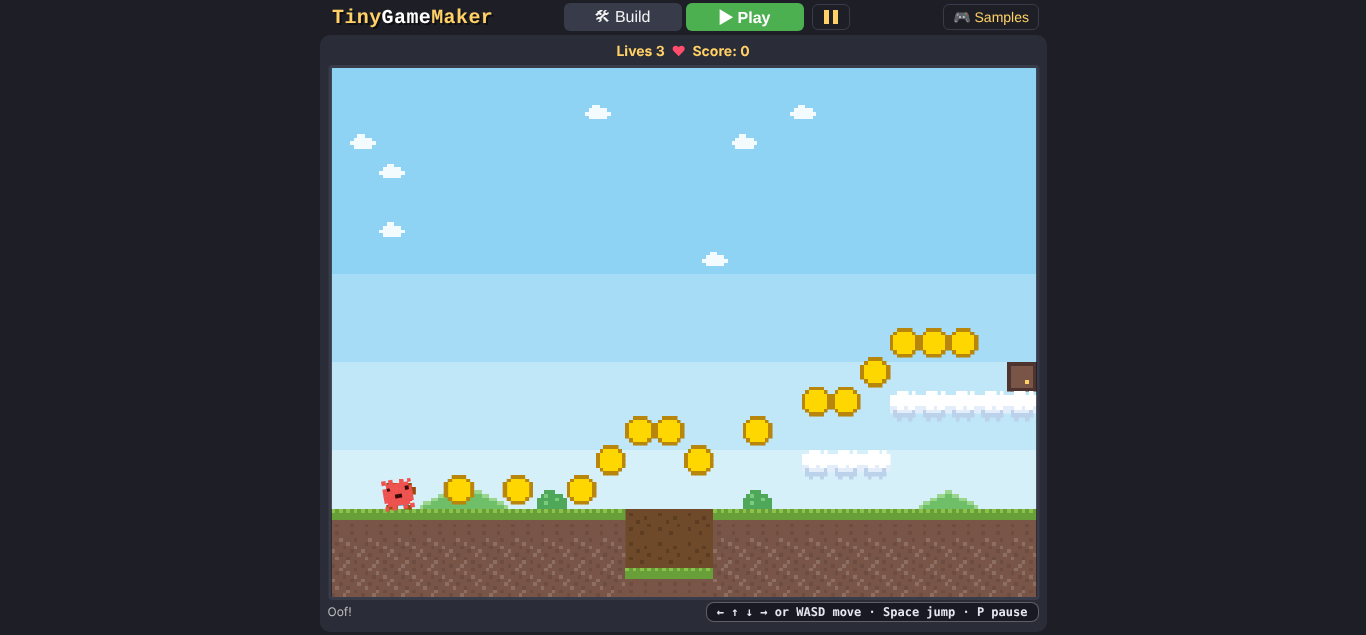
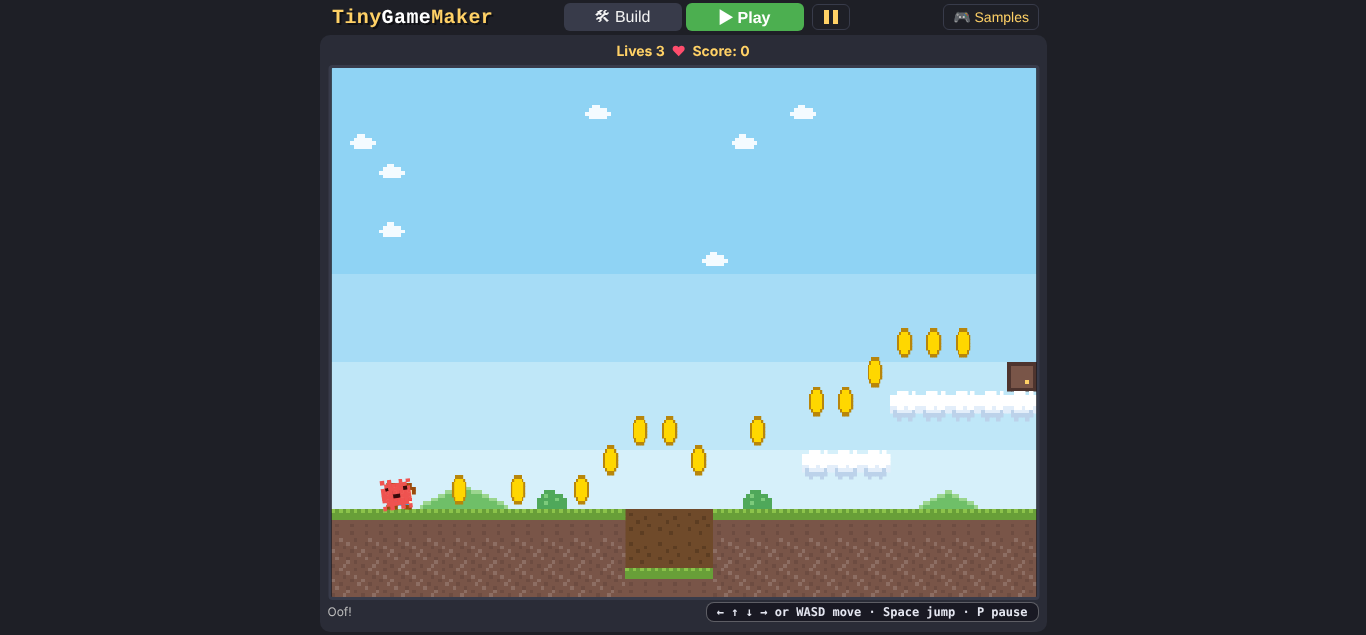
Cloud Hopper stage 3: start-to-finish bot, reachability check, fall test, proof notes
A bot that plays the sample from the first frame to the flag at 30/60/144 fps (11 hops), a board-reading reachability check of every required jump against the measured limits, and a fall test from all 202 platform spots that finishes the room from wherever it lands. Plus screenshots of every room at both viewports.

Claude-Session: https://claude.ai/code/session_01AFnBmdx3cEuA6xEbAxjFVp

Changed region(s): [[0.2767, 0.6583, 0.5842, 0.8079], [0.5842, 0.5087, 0.7379, 0.6583]]

diff --git a/tests/cloudhopper.bot.js b/tests/cloudhopper.bot.js
@@ -1,0 +1,185 @@
+// Cloud Hopper: a bot that plays the sample from the first frame to the flag, and a fall test from every platform.
+// usage: node tests/cloudhopper.bot.js [html] [fps list, default 30,60,144] [mode: full|fall|both]
+// The bot sets the same key state the keyboard handlers set (keys[...]) and steps tick() by hand (requestAnimationFrame
+// disabled), so a run is deterministic. It has no map knowledge beyond which platform it stands on: it walks to a takeoff x,
+// jumps, steers toward the next platform and lets go, like a kid would; if a jump misses it simply starts again from wherever it lands.
+const { chromium } = require("/opt/node22/lib/node_modules/playwright");
+const fs = require("fs"), path = require("path"), os = require("os");
+const html = path.resolve(process.argv[2] && process.argv[2] !== "-" ? process.argv[2] : path.join(__dirname, "..", "index.html"));
+const fpsList = (process.argv[3] || "30,60,144").split(",").map(Number);
+const mode = process.argv[4] || "both";
+const anchor = 'if (loadAutosave()) log("Welcome back! Restored your last auto-saved session.");\n  updateUndoRedoButtons();\n';
+const DRIVER = `window.__bot = (FPS) => {
+  const dt = 1 / FPS; let frames = 0; const step = n => { for (let i = 0; i < n; i++) { tick(dt); frames++; } };
+  const P = () => actors.find(a => a.isPlayer);
+  const K = (k, v) => { keys[k] = v; };
+  const release = () => { K("ArrowLeft", false); K("ArrowRight", false); K(" ", false); };
+  const roomIdx = () => rooms.findIndex(r => r.id === currentRoomId);
+  const stats = { hops: 0, misses: 0, walked: 0, rooms: [], mpTries: 0 };
+  const done = () => playSessionEnded;
+  function walkTo(px, tol) {
+    tol = tol || 3;
+    for (let n = 0; n < FPS * 12 && !done(); n++) {
+      const p = P(), d = px - p.x, vel = p.vx, stop = vel * Math.abs(vel) / (2 * 1700), err = d - stop;
+      K("ArrowLeft", false); K("ArrowRight", false);
+      if (Math.abs(d) <= tol && Math.abs(vel) < 25) break;
+      if (err > 1.5) K("ArrowRight", true); else if (err < -1.5) K("ArrowLeft", true);
+      const x0 = p.x; step(1); stats.walked += Math.abs(p.x - x0);
+      if (!p.grounded) { release(); return false; }
+    }
+    release(); return true;
+  }
+  // jump toward dir, hold the direction until until(p) says stop, then coast to the landing
+  function hop(dir, until) {
+    const p = P(), key = dir > 0 ? "ArrowRight" : "ArrowLeft"; stats.hops++;
+    K(key, true); K(" ", true); step(2); K(" ", false);
+    let air = false;
+    for (let n = 0; n < FPS * 2 && !done(); n++) {
+      if (until(p)) K(key, false);
+      const x0 = p.x; step(1); stats.walked += Math.abs(p.x - x0);
+      if (!p.grounded) air = true;
+      if (air && p.grounded) break;
+    }
+    release(); step(Math.ceil(FPS * 0.25));
+  }
+  const ty = p => Math.round(p.y / 32 * 100) / 100, tx = p => p.x / 32;
+  const near = (a, b) => Math.abs(a - b) < 0.2;
+  const mp = () => actors.find(a => a.defId === MOVING_PLATFORM_DEF_ID);
+  // one decision per call; returns false if nothing sensible to do (airborne)
+  function act(room) {
+    const p = P();
+    if (!p.grounded) {                                                                            // bouncing in the pit: steer over to the big cloud, as the first time
+      if (room === 1 && p.x / 32 > 8.4 && p.x / 32 < 14.2) { K("ArrowRight", true); step(1); if (P().x / 32 >= 14.2) release(); return; }
+      step(1); return;
+    }
+    const y = ty(p), x = tx(p);
+    if (room === 0) {
+      if (near(y, 14.31) && x < 10) { walkTo(8.3 * 32); hop(1, q => q.x >= 13.2 * 32); }
+      else if (y > 15.5) { walkTo(12.0 * 32); hop(1, q => q.x >= 13.2 * 32); }                   // in the dip: hop out to the right
+      else if (near(y, 14.31) && x < 16.0) { walkTo(14.2 * 32); hop(1, q => q.x >= 16.4 * 32); }
+      else if (near(y, 14.31)) { walkTo(14.2 * 32); }                                              // fell off a cloud: back to the foot of the steps
+      else if (near(y, 12.31)) { walkTo(17.2 * 32); hop(1, q => q.x >= 19.5 * 32); }
+      else if (near(y, 10.31)) { K("ArrowRight", true); step(Math.ceil(FPS * 0.6)); release(); }  // walk on into the door
+      else step(1);
+    } else if (room === 1) {
+      const m = mp();
+      if (near(y, 14.31) && x < 9) { K("ArrowRight", true); for (let n = 0; n < FPS * 3 && !done(); n++) { step(1); if (!P().grounded) break; }
+        // dropped into the pit: ride the bounce and let go once over the cloud
+        for (let n = 0; n < FPS * 3 && !done(); n++) { if (P().x >= 14.2 * 32) K("ArrowRight", false); step(1); if (P().grounded && n > 3 && P().y < 12 * 32) break; }
+        release(); step(Math.ceil(FPS * 0.25)); }
+      else if (near(y, 14.31) && x >= 10.2) { K("ArrowLeft", true); for (let n = 0; n < FPS * 3 && !done(); n++) { step(1); if (!P().grounded) break; }
+        for (let n = 0; n < FPS * 3 && !done(); n++) { if (P().x >= 14.2 * 32 || P().vy < -400) K("ArrowLeft", false); if (P().vy < -300) K("ArrowRight", true); if (P().x >= 14.2 * 32) K("ArrowRight", false); step(1); if (P().grounded && n > 3 && P().y < 12 * 32) break; }
+        release(); step(Math.ceil(FPS * 0.25)); }
+      else if (near(y, 9.31) && x >= 12.6) {                                                      // on the big cloud: wait for the platform, then hop onto it
+        walkTo(17.6 * 32);
+        for (let n = 0; n < FPS * 12 && !done(); n++) {
+          const dx = m.x - P().x;
+          const lo = 40 + (stats.mpTries % 5) * 12;                                                // a kid varies the moment after a miss
+          if (dx > lo && dx < lo + 60) { stats.mpTries++; hop(1, q => Math.abs((m.x + 11) - (q.x + 11)) < 10 + (stats.mpTries % 3) * 6); break; }
+          step(1);
+        }
+      }
+      else if (y > 7.2 && y < 7.8) {                                                              // riding the platform: hop to the ledge when it is on the left half
+        for (let n = 0; n < FPS * 12 && !done(); n++) { if (m.x <= 19.2 * 32 && m.x >= 16 * 32) { hop(1, q => q.x >= 21.2 * 32); break; } step(1); }
+      }
+      else if (near(y, 5.31) && x >= 19.2) { K("ArrowRight", true); step(Math.ceil(FPS * 0.8)); release(); }
+      else if (near(y, 12.31) || near(y, 10.31)) { K("ArrowLeft", true); step(Math.ceil(FPS * 1.2)); release(); }
+      else if (near(y, 14.31)) { K("ArrowLeft", true); step(Math.ceil(FPS * 0.5)); release(); }
+      else step(1);
+    } else {
+      if (near(y, 15.31)) { if (x < 3.0 || x > 3.6) walkTo(3.2 * 32); hop(1, q => q.x >= 4.5 * 32); }
+      else if (near(y, 13.31) && x < 8) { walkTo(6.0 * 32); hop(1, q => q.x >= 8.7 * 32); }
+      else if (near(y, 11.31) && x < 13) { walkTo(10.4 * 32); hop(1, q => q.x >= 14.2 * 32); }
+      else if (near(y, 9.31) && x < 18) { walkTo(16.0 * 32); hop(1, q => q.x >= 18.2 * 32); }
+      else if (near(y, 7.31) && x < 21.4) { walkTo(20.0 * 32); hop(1, q => q.x >= 21.3 * 32); }
+      else if (near(y, 5.31)) { if (x > 22.8) walkTo(22.2 * 32); else { K("ArrowRight", true); step(Math.ceil(FPS * 0.8)); release(); } }   // the flag is at column 22: step back if we ran past it
+      else if (near(y, 13.31) || near(y, 11.31)) { K("ArrowLeft", true); step(Math.ceil(FPS * 1.5)); release(); }  // a side-route cloud: drop back down
+      else step(1);
+    }
+  }
+  // run until the room changes or the run ends; returns seconds spent
+  function playRoom(room, maxSec) {
+    const start = frames;
+    while (!done() && roomIdx() === room && frames - start < FPS * maxSec) { if (roomTransition) { advanceGameClock(dt); frames++; if (gameNow() - roomTransition.startedAt >= ROOM_TRANSITION_MS) roomTransition = null; continue; } if (window.__trace && window.__trace.length < 400) window.__trace.push([room, +((frames - start) / FPS).toFixed(1), +(P().x / 32).toFixed(2), +(P().y / 32).toFixed(2), P().grounded ? 1 : 0, mp() ? +(mp().x / 32).toFixed(1) : 0]); act(room); }
+    return (frames - start) / FPS;
+  }
+  function setup(room, cx, cy) {
+    const g = SAMPLE_GAMES.find(g => g.id === "cloud-hopper");
+    loadExampleGame(g.builder, g.name, { skipConfirm: true });
+    if (room !== 0 || cx != null) { activateRoom(rooms[room].id); removeAllPlayerInstances(); placeExampleActor(playerDefId, cx, cy); playerRoomId = currentRoomId; }
+    enterPlayMode(); playReadyUntil = null; release();
+    for (let i = 0; i < FPS * 0.8 && P().vy === 0; i++) step(1);
+    step(Math.round(FPS * 0.6));
+  }
+  function full() {
+    setup(0);
+    const t = { r1: 0, r2: 0, r3: 0 };
+    const hp = () => P().x;
+    t.r1 = playRoom(0, 90); stats.rooms.push(roomIdx());
+    t.r2 = roomIdx() === 1 ? playRoom(1, 150) : 0; stats.rooms.push(roomIdx());
+    t.r3 = roomIdx() === 2 ? playRoom(2, 90) : 0; stats.rooms.push(roomIdx());
+    for (let i = 0; i < FPS; i++) step(1);
+    return { win: playSessionEnded === "win", lives, seconds: +(frames / FPS).toFixed(1), perRoom: t, hops: stats.hops, tilesWalked: +(stats.walked / 32).toFixed(1), route: stats.rooms };
+  }
+  // fall test: stand on every platform cell, walk off either side, wait, check, then finish the room from wherever we landed
+  function fall() {
+    const g = SAMPLE_GAMES.find(g => g.id === "cloud-hopper");
+    const results = []; let bad = 0;
+    for (let room = 0; room < 3; room++) {
+      loadExampleGame(g.builder, g.name, { skipConfirm: true }); activateRoom(rooms[room].id);
+      const spots = [];
+      for (let cy = 1; cy < ROWS - 1; cy++) for (let cx = 0; cx < roomCols(); cx++) {
+        const solidHere = board[cy + 1] && board[cy + 1][cx] && geometryAt(cx, cy + 1) === "solid" && !isCellBlocking(cx, cy, { isPlayer: true });
+        if (solidHere && !isCellBlocking(cx, cy - 1, { isPlayer: true }) && geometryAt(cx, cy) !== "door") spots.push([cx, cy]);
+      }
+      for (const [cx, cy] of spots) for (const dir of [-1, 1]) {
+        loadExampleGame(g.builder, g.name, { skipConfirm: true }); activateRoom(rooms[room].id); removeAllPlayerInstances();
+        placeExampleActor(playerDefId, cx, cy); playerRoomId = currentRoomId; enterPlayMode(); playReadyUntil = null; release();
+        const p = P(); step(Math.round(FPS * 0.7));
+        K(dir > 0 ? "ArrowRight" : "ArrowLeft", true); step(Math.round(FPS * 0.9)); release();      // walk off the platform
+        for (let i = 0; i < FPS * 7; i++) { step(1); if (p.grounded && Math.abs(p.vx) < 1 && i > FPS * 0.5) break; if (playSessionEnded) break; }
+        const walkedIntoDoor = roomIdx() !== room;                                                       // the platform led to a door: that is progress, not a fall
+        const settled = walkedIntoDoor || playSessionEnded === "win" || (lives === 3 && !playSessionEnded && p.x > -5 && p.x < roomCols() * 32 && p.y > 0 && p.y < ROWS * 32);
+        const land = [Math.round(p.x / 32 * 10) / 10, Math.round(p.y / 32 * 10) / 10];
+        const sec = !walkedIntoDoor && settled ? playRoom(room, 120) : 0;
+        const finished = walkedIntoDoor || playSessionEnded === "win" || roomIdx() !== room;
+        const ok = settled && finished;
+        if (!ok) bad++;
+        results.push({ room, from: [cx, cy], dir, ok, settled, finished, land, seconds: +sec.toFixed(1) });
+      }
+    }
+    return { total: results.length, bad, failures: results.filter(r => !r.ok).slice(0, 8) };
+  }
+  function from(room, cx, cy) { setup(room, cx, cy); const sec = playRoom(room, 120); return { room, sec: +sec.toFixed(1), win: playSessionEnded === "win", now: [roomIdx(), +(P().x / 32).toFixed(1), +(P().y / 32).toFixed(1)] }; }
+  return { full, fall, from };
+};`;
+(async () => {
+  const src = fs.readFileSync(html, "utf8");
+  if (!src.includes(anchor)) throw new Error("anchor missing");
+  const tmp = path.join(os.tmpdir(), "chbot_hooked.html");
+  fs.writeFileSync(tmp, src.replace(anchor, anchor + DRIVER));
+  const b = await chromium.launch({ executablePath: "/opt/pw-browsers/chromium" });
+  let failed = false;
+  for (const fps of fpsList) {
+    const c = await b.newContext({ viewport: { width: 1366, height: 635 } }); const p = await c.newPage();
+    p.on("dialog", d => d.accept()); const errs = []; p.on("pageerror", e => errs.push(e.message));
+    await p.addInitScript("window.requestAnimationFrame=()=>0;");
+    await p.goto("file://" + tmp + "#t");
+    if (process.env.CHFROM) { const [r, cx, cy] = process.env.CHFROM.split(",").map(Number); if (process.env.CHTRACE) await p.evaluate(() => { window.__trace = []; }); console.log(JSON.stringify(await p.evaluate(([f, r, cx, cy]) => window.__bot(f).from(r, cx, cy), [fps, r, cx, cy]))); if (process.env.CHTRACE) console.log((await p.evaluate(() => window.__trace)).slice(0, 30).map(t => t.join(":")).join(" ")); await c.close(); continue; }
+    if (mode !== "fall") {
+      if (process.env.CHTRACE) await p.evaluate(() => { window.__trace = []; });
+      const r = await p.evaluate(f => window.__bot(f).full(), fps);
+      if (process.env.CHTRACE) console.log((await p.evaluate(() => window.__trace)).filter(t => t[0] === 1).slice(0, 40).map(t => t.join(":")).join(" "));
+      console.log(fps + " fps FULL RUN", JSON.stringify(r), "errors", errs.length);
+      if (!r.win || errs.length) failed = true;
+    }
+    if (mode !== "full") {
+      const r = await p.evaluate(f => window.__bot(f).fall(), fps);
+      console.log(fps + " fps FALL TEST", JSON.stringify(r), "errors", errs.length);
+      if (r.bad || errs.length) failed = true;
+    }
+    await c.close();
+  }
+  await b.close();
+  process.exit(failed ? 1 : 0);
+})();

diff --git a/tests/cloudhopper.reach.js b/tests/cloudhopper.reach.js
@@ -1,0 +1,61 @@
+// Cloud Hopper: reachability check. Reads the real boards from the builder, derives every required jump of the main route
+// (rise and horizontal gap in px) and compares it with the measured limits (apex 122 px, worst case at 30 fps; standing reach
+// from a ballistic model with a 20% acceleration allowance) requiring >= 25% margin. Timed legs (moving platform) and the
+// trampoline leg are measured by simulation instead (fraction of the platform cycle that works; landing band of the bounce).
+// usage: node tests/cloudhopper.reach.js [html]
+const { chromium } = require("/opt/node22/lib/node_modules/playwright");
+const fs = require("fs"), path = require("path"), os = require("os");
+const html = path.resolve(process.argv[2] || path.join(__dirname, "..", "index.html"));
+const anchor = 'if (loadAutosave()) log("Welcome back! Restored your last auto-saved session.");\n  updateUndoRedoButtons();\n';
+const PAGE = `window.__reach = () => {
+  const g = SAMPLE_GAMES.find(g => g.id === "cloud-hopper"); loadExampleGame(g.builder, g.name, { skipConfirm: true });
+  const topRow = (room, row, c0, c1) => { activateRoom(rooms[room].id); for (let c = c0; c <= c1; c++) if (geometryAt(c, row) !== "solid") return null; return row; };
+  // [label, room, fromRow, fromC0, fromC1, toRow, toC0, toC1]  (rows are the solid tile rows; the hero stands on top)
+  const legs = [
+    ["R1 floor -> dip far side", 0, 15, 0, 9, 15, 13, 15, "flat gap over the dip"],
+    ["R1 floor -> cloud A", 0, 15, 13, 15, 13, 16, 18],
+    ["R1 cloud A -> cloud B", 0, 13, 16, 18, 11, 19, 23],
+    ["R3 floor -> cloud A", 2, 16, 0, 23, 14, 4, 6],
+    ["R3 A -> B", 2, 14, 4, 6, 12, 9, 11],
+    ["R3 B -> C", 2, 12, 9, 11, 10, 14, 16],
+    ["R3 C -> D", 2, 10, 14, 16, 8, 18, 20],
+    ["R3 D -> island", 2, 8, 18, 20, 6, 21, 23],
+  ];
+  const out = [];
+  for (const [label, room, fr, f0, f1, tr, t0, t1] of legs) {
+    const okFrom = topRow(room, fr, f0, f1) !== null, okTo = topRow(room, tr, t0, t1) !== null;
+    const rise = (fr - tr) * 32, gap = Math.max(0, t0 - (f1 + 1)) * 32;
+    // ballistic model: time to come back down to height 'rise' after a 620 px/s jump; walking speed 220 with a 20% acceleration allowance
+    const disc = 620 * 620 - 2 * 1450 * Math.max(0, rise), t = disc > 0 ? (620 + Math.sqrt(disc)) / 1450 : 0;
+    const avail = 0.8 * 220 * t, need = gap + 1;
+    out.push({ label, okFrom, okTo, rise, gap, riseMargin: +(1 - rise / 122).toFixed(2), reachMargin: avail ? +(1 - need / avail).toFixed(2) : -1, availReach: Math.round(avail) });
+  }
+  // trampoline leg (room 2 pit -> big cloud): launch 900 px/s from the trampoline surface (row 16 top = 512) to the cloud top (row 10 = 320)
+  activateRoom(rooms[1].id);
+  const tr = { cloudOk: [13, 14, 15, 16, 17, 18, 19].every(c => geometryAt(c, 10) === "solid"), trampolineOk: geometryAt(9, 16) === "trampoline" };
+  const rise = 512 - 320, disc = 900 * 900 - 2 * 1450 * rise;
+  tr.rise = rise; tr.apex = Math.round(900 * 900 / (2 * 1450)); tr.riseMargin = +(1 - rise / tr.apex).toFixed(2);
+  tr.timeToCloud = +((900 + Math.sqrt(disc)) / 1450).toFixed(2);
+  return { legs: out, tramp: tr };
+};`;
+(async () => {
+  const src = fs.readFileSync(html, "utf8"); if (!src.includes(anchor)) throw new Error("anchor");
+  const tmp = path.join(os.tmpdir(), "chreach_hooked.html"); fs.writeFileSync(tmp, src.replace(anchor, anchor + PAGE));
+  const b = await chromium.launch({ executablePath: "/opt/pw-browsers/chromium" });
+  const p = await (await b.newContext({ viewport: { width: 1366, height: 635 } })).newPage(); p.on("dialog", d => d.accept());
+  const errs = []; p.on("pageerror", e => errs.push(e.message)); await p.addInitScript("window.requestAnimationFrame=()=>0;");
+  await p.goto("file://" + tmp + "#t");
+  const r = await p.evaluate(() => window.__reach());
+  let bad = 0;
+  for (const l of r.legs) {
+    const ok = l.okFrom && l.okTo && l.riseMargin >= 0.25 && (l.gap === 0 || l.reachMargin >= 0.25);
+    if (!ok) bad++;
+    console.log((ok ? "ok   " : "FAIL ") + l.label.padEnd(26) + " rise " + String(l.rise).padStart(3) + " px (margin " + Math.round(l.riseMargin * 100) + "%)  gap " + String(l.gap).padStart(3) + " px of " + l.availReach + " reachable (margin " + (l.gap ? Math.round(l.reachMargin * 100) + "%" : "n/a, adjacent") + ")");
+  }
+  const t = r.tramp, tok = t.cloudOk && t.trampolineOk && t.riseMargin >= 0.25;
+  if (!tok) bad++;
+  console.log((tok ? "ok   " : "FAIL ") + "R2 trampoline -> big cloud   rise " + t.rise + " px of apex " + t.apex + " (margin " + Math.round(t.riseMargin * 100) + "%), airborne to the cloud top " + t.timeToCloud + " s");
+  console.log("required jumps on the main route: Room 1: 3 (dip, cloud A, cloud B), Room 2: 3 (trampoline bounce, platform hop, ledge hop), Room 3: 5; total 11 (the bot made 11 hops in its win)");
+  console.log("errors", errs.length, "bad", bad);
+  await b.close(); process.exit(bad || errs.length ? 1 : 0);
+})();

diff --git a/CLAUDE.md b/CLAUDE.md
@@ -7265,3 +7265,17 @@ Not done: screenshots at 1920x1080, the fall test from every platform, frame-ide
 **Traced (30 and 60 fps, hold-time sweeps through real key states)**: every main step in Room 3 lands for a wide band of hold times (floor->A 0.20-0.56 s, A->B from its right end 0.26/0.32-0.74 s, B->C 0.44-0.80 s, C->D 0.20-0.68 s, D->island 0.20-0.80 s), both side-route legs in Rooms 2 and 3 land, Room 1's pit and cloud steps still land (18/18), Room 2's pit-bounce-to-cloud still lands, and the moving-platform-to-ledge window is unchanged (about half the cycle; landing on the ledge near the door also counts, since the door is the way on). Walking through Room 2's door arrives in Room 3 at (1.2, 15.2); standing a hero on the island and walking right wins.
 
 Not done (Stage 3): the end-to-end bot and its reachability check, the fall test from every platform, the frame-identical/old-autosave/export checks, screenshots at both viewports, and the first-frame test. Screenshots (Build, all three rooms): `prototypes/cloudhopper-shots/`.
+
+### Cloud Hopper, Stage 3: proof
+
+Scripts (committed, not shipped): `tests/cloudhopper.bot.js [html] [fps list] [full|fall|both]` (a bot plus the fall test), `tests/cloudhopper.reach.js` (reads the real boards and checks every required jump against the measured limits). The bot sets the same `keys[...]` the keyboard handlers set and steps `tick()` by hand with `requestAnimationFrame` off, so runs are deterministic; it knows only which platform it stands on (walk to a takeoff x, jump, steer toward the next platform, let go) and, after a miss, simply starts again from wherever it lands. **Test-authoring traps found**: with manual ticking `roomTransition` never ends (`frame()` ends it), so a bot must advance the game clock and clear it itself after a door; a bot that repeats the same timing against the moving platform can loop forever (at 30 fps it kept overshooting onto the optional cloud and dropping back, a deterministic cycle), so the hop moment now varies after each miss, as a kid's would.
+
+**Full run, start to flag (Mrs.-free, default hero Gary), 3 lives kept, zero errors:** 30 fps 29.4 s, 60 fps 19.5 s, 144 fps 19.5 s. Route: 11 hops (the 11 required jumps: Room 1 dip, cloud A, cloud B; Room 2 trampoline bounce, hop onto the platform, hop to the ledge; Room 3 five cloud steps), about 45 to 56 tiles walked (Room 1 5.2 s, Room 2 6.1 s at 60 fps and 13.0 s at 30 fps because the moving platform needs a second try, Room 3 6.6 s).
+
+**Reachability** (`cloudhopper.reach.js`, all ok): every ground/cloud step is a 64 px rise (48% margin against the 30 fps apex of 122 px); the widest flat gap is 96 px over the Room 1 dip (36% margin) and the widest cloud gaps are 64 px (50% margin); the trampoline bounce rises 192 of 279 px (31% margin) to the big cloud. The two timed legs (platform hops) are measured by simulation, not computed: the hop from the cloud onto the moving platform lands for about 45% of the platform's 7.3 s cycle per takeoff column, and the hop from the platform to the ledge for about 53% (39/74 and 40/74 sampled start phases at 30/60 fps); a kid waits for the right moment, and the cloud floor below makes a miss free.
+
+**Fall test**: every standable cell of every platform in all three rooms (202 start spots, walking off each side), at 30, 60 and 144 fps: all 202 end up grounded in the same room or in the next one through a door (never at the start of the game, never on a lost life, never off the board), and the bot then finishes the room from wherever it landed within 120 s: 0 failures at each frame rate. Findings the test surfaced and what they were: a hero that walks into the Room 2 pit with no steering **bounces on the trampoline forever** (the player's bounce never decays, 0.97 restitution plus a minimum launch; the other actors decay), so the pit is recoverable only by steering out, which is what a held direction does; a hero landing on the ledge's very left edge (x 19.4) was misread by the bot; the island's far right is past the flag (the flag is at column 22, the island ends at 23), so a bot, like a kid, must step back; these were test-controller issues, not level faults, except the pit bounce, which is expected trampoline behavior and noted.
+
+**Other checks**: the 13 older samples are frame-identical (625 frames each) against the commit before Cloud Hopper (`ebd2077`); an autosave written by the pre-Cloud-Hopper build loads, plays and still opens Cloud Hopper from the gallery; screenshots of every room at 1366x635 and 1920x1080 (`prototypes/cloudhopper-shots/room{1,2,3}-{1366x635,1920x1080}.png`): 0 uncovered cells (every cell has a Paint tile or a skinned tile), 0 missing skin or Paint defs, the board fully inside the window with no page scroll. **First-frame test** (real time, no hooks): from the landing screen's "Play a game" pick, 235 ms after the click the canvas is 69% sky, grass is present (about 11,800 grass pixels) and the next sample 220 ms later already differs from the first in 7,600 pixels (coins bobbing, Mousecop moving; the clouds drift once play starts); the same numbers hold in the editor (Samples, then Play). So sky, grass and motion are all there inside one second.
+
+**Not done**: an exported standalone game of Cloud Hopper was not played (it uses only already-exported pieces, but this was not verified); the fall test does not cover falling out of the Room 2 trampoline bounce mid-air (only landings); Mrs. Pecks was not tried as the hero (Gary was chosen).
